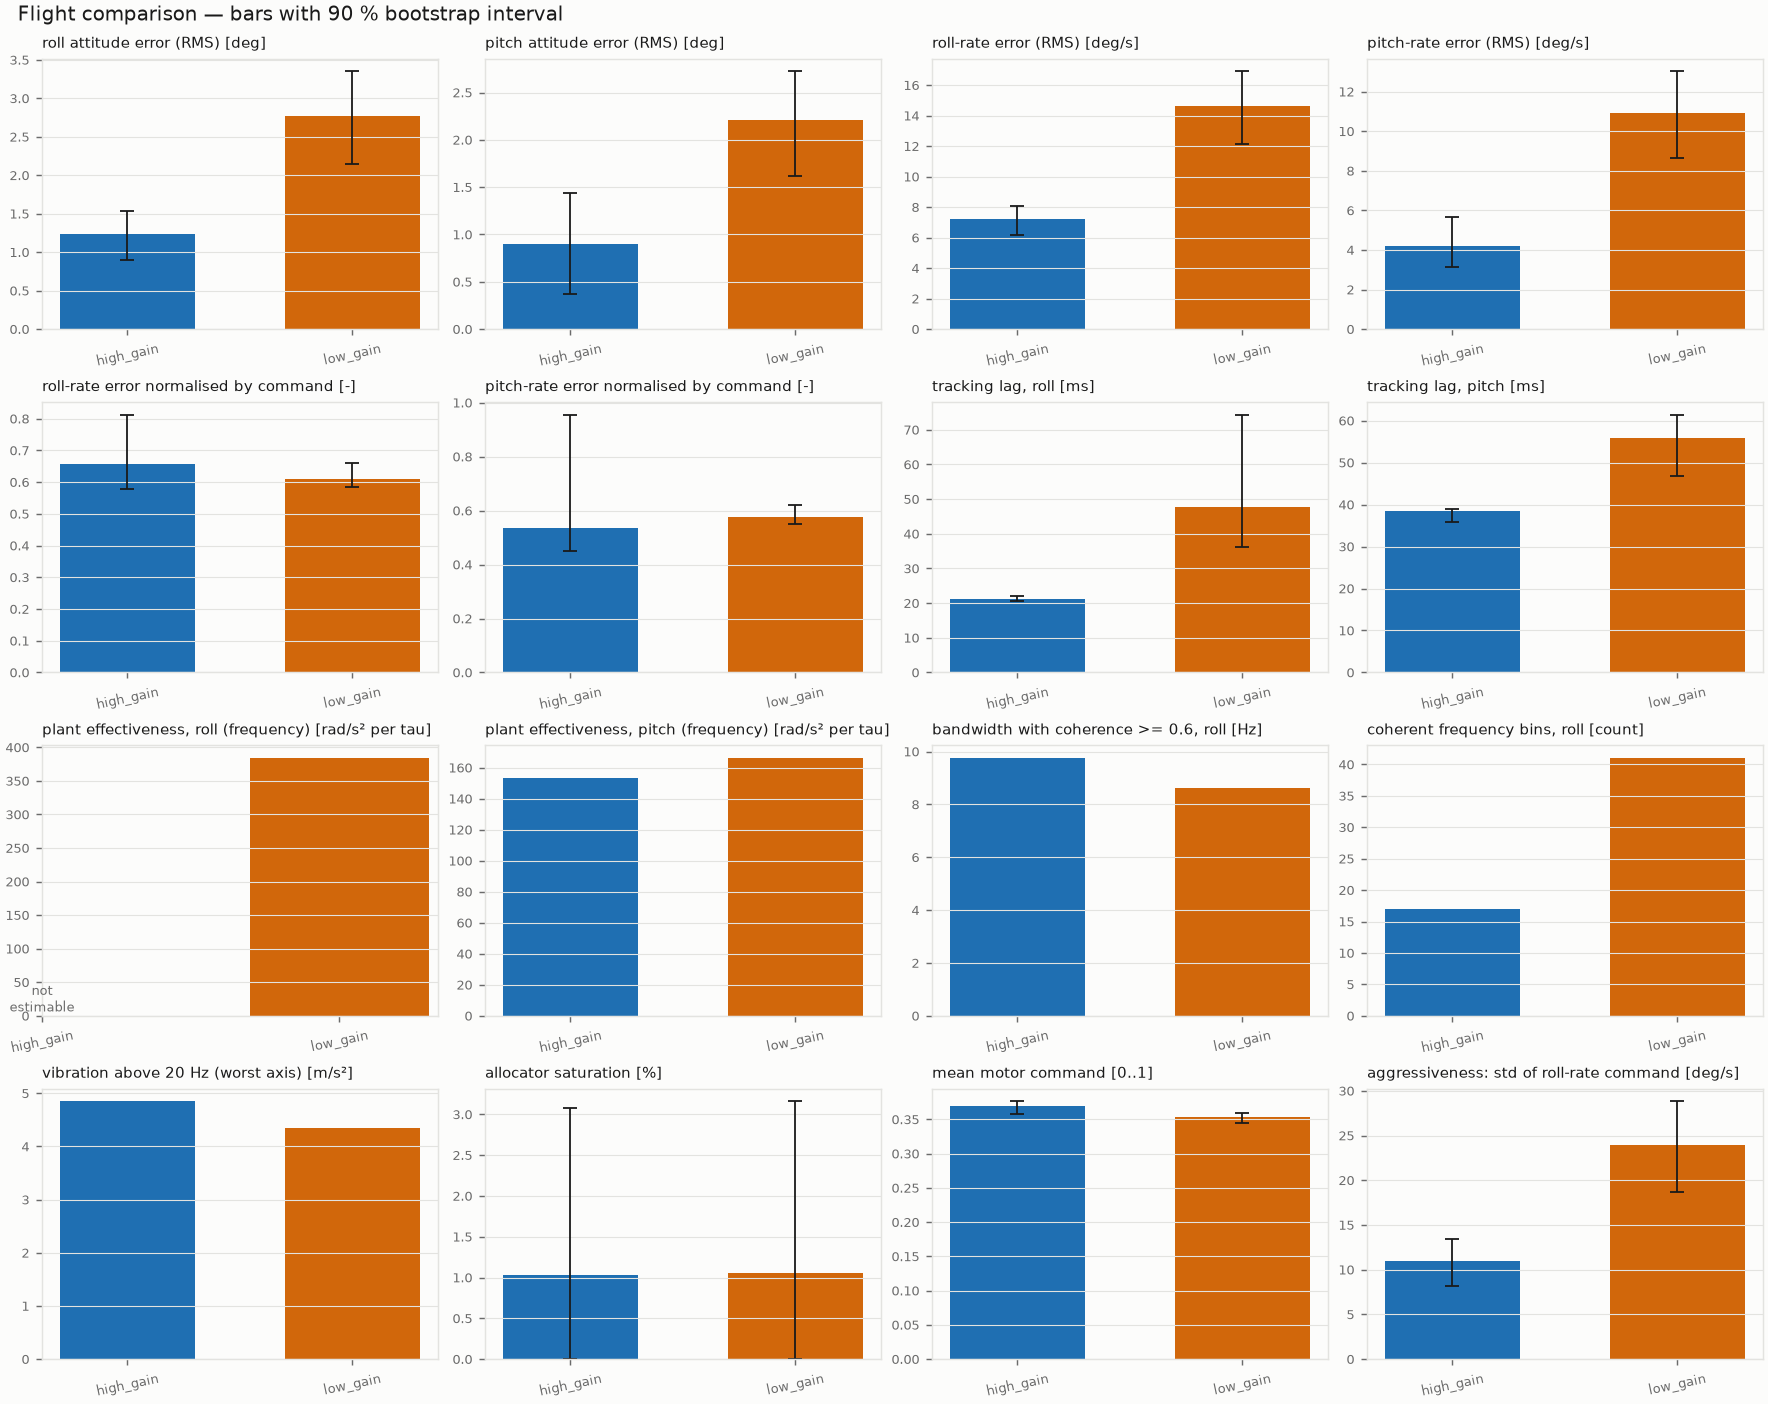
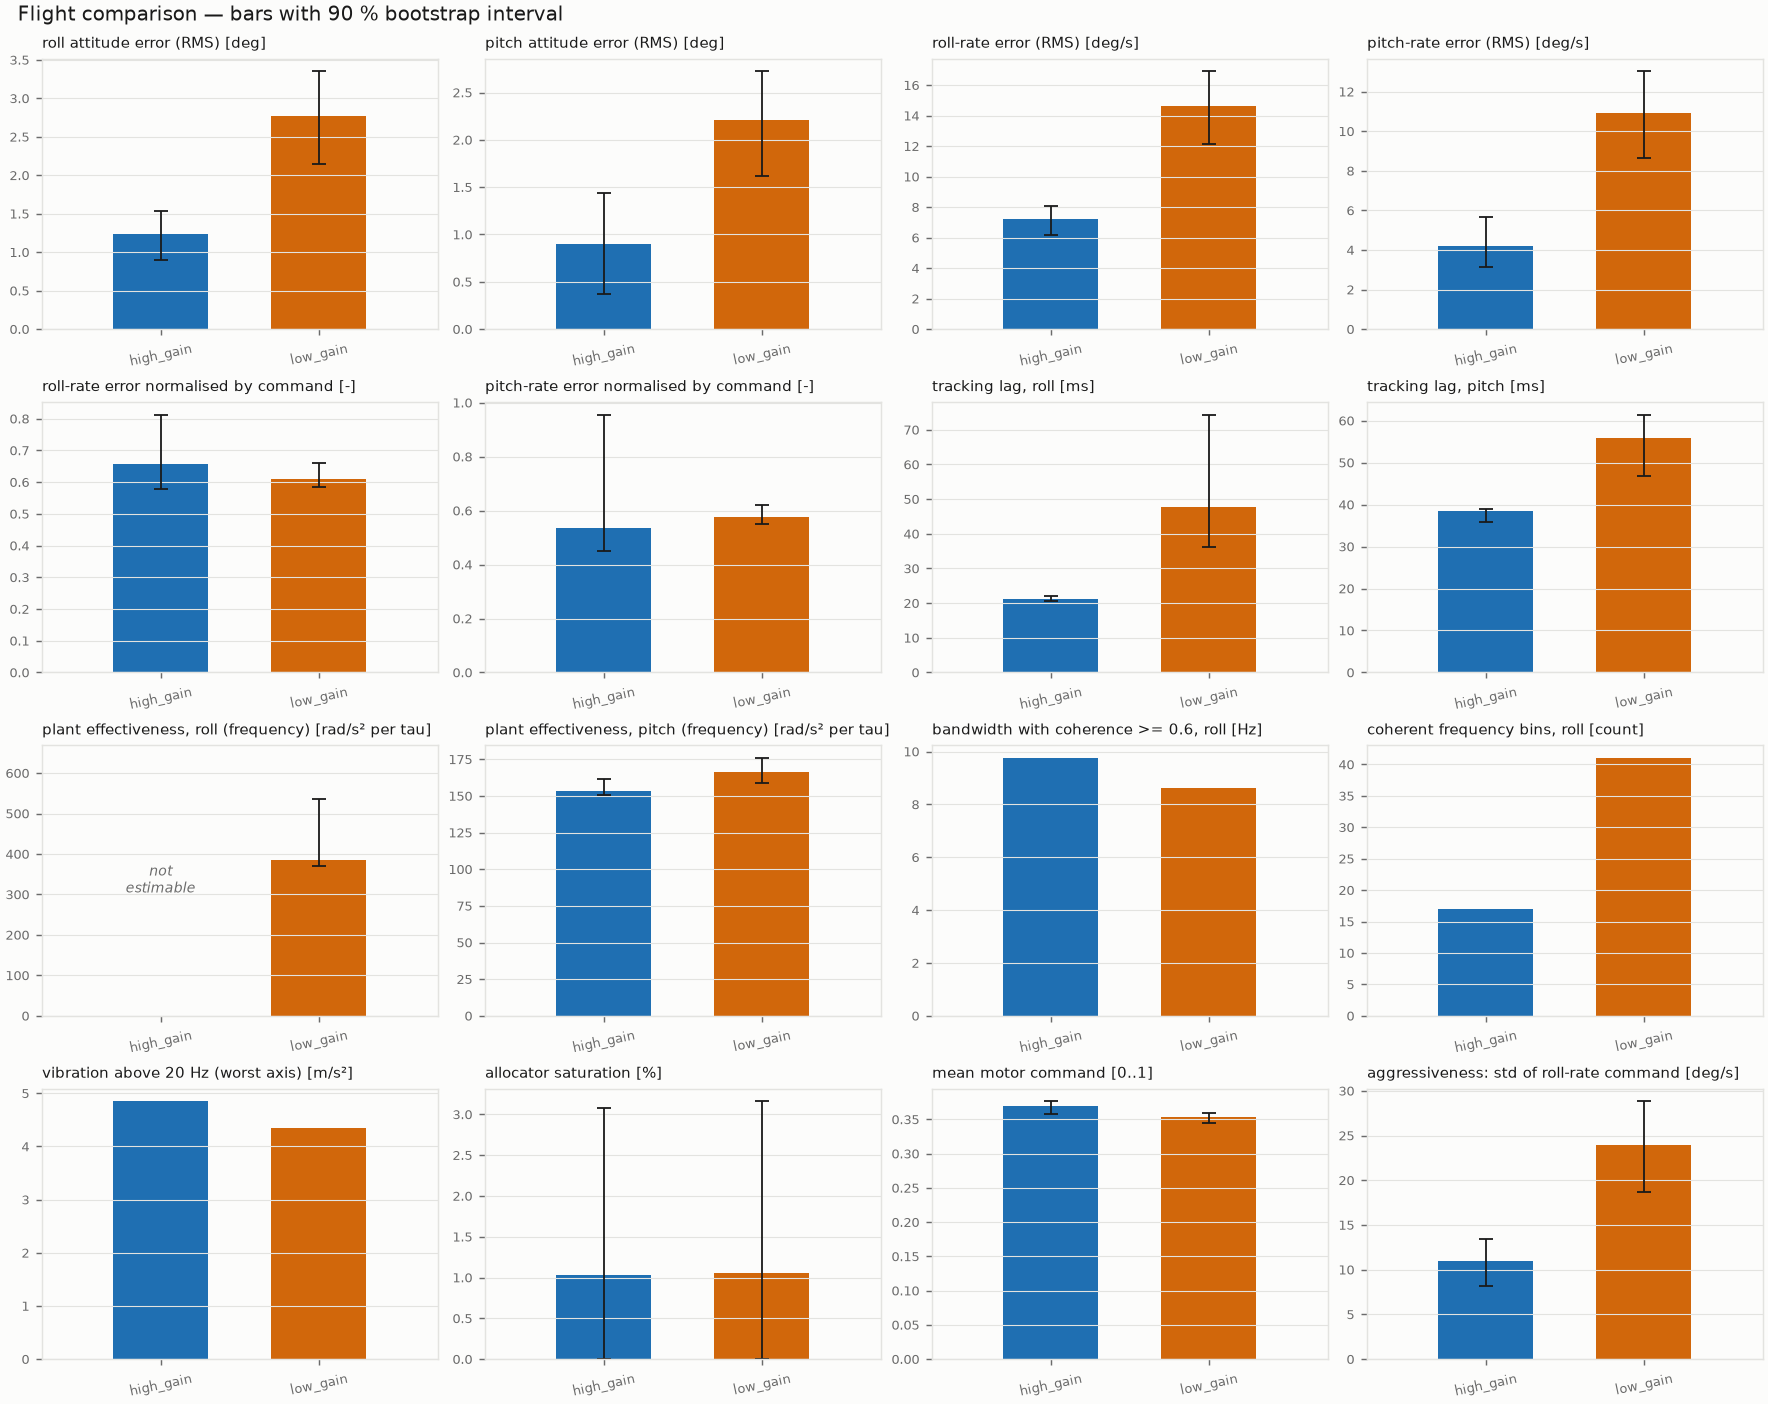
Draw the plant-gain interval and centre the missing-bar label
The plant gain comes from one spectral fit per flight, not from the block
bootstrap, so its interval lives in the frequency results and the figure
was skipping it. The two plant-effectiveness panels now show the
interval, which is what the pitch argument rests on: 153 [151-161]
against 166 [159-176] overlap, so the +8% is not a finding.

The missing-bar label was anchored at the first x slot and spilled over
the y tick labels. It is now centred in the empty slot, with padding on
both sides of the axis.

diff --git a/src/compare_flights.py b/src/compare_flights.py
@@ -80,6 +80,9 @@ METRICS = {
 }
 
 NO_CI = {"vib_hf", "K_p", "K_q", "band_p", "band_pts_p"}
+# Metrics whose interval comes from the spectral fit, not the block
+# bootstrap: the figure must read it from the frequency results.
+CI_FROM_FREQ = {"K_p", "K_q"}
 
 
 def auto_window(u, t):
@@ -518,21 +521,38 @@ def main(argv):
     for ax, k in zip(axs, keys):
         label, unit, _ = METRICS[k]
         vals = [b.get(k, np.nan) for b in bases]
-        los = [np.nanpercentile(s[k], 5) if np.isfinite(s[k]).any() else np.nan
-               for s in boots]
-        his = [np.nanpercentile(s[k], 95) if np.isfinite(s[k]).any() else np.nan
-               for s in boots]
+        if k in CI_FROM_FREQ:
+            # The plant gain is not produced by the block bootstrap (it comes from
+            # one spectral fit per flight), so its interval has to be read from
+            # where it was computed: resampling the coherent frequency bins.
+            los = [(fq_ or {}).get(f"{k}_lo", np.nan) for fq_ in freqs_by_flight]
+            his = [(fq_ or {}).get(f"{k}_hi", np.nan) for fq_ in freqs_by_flight]
+        else:
+            los = [np.nanpercentile(s[k], 5) if np.isfinite(s[k]).any() else np.nan
+                   for s in boots]
+            his = [np.nanpercentile(s[k], 95) if np.isfinite(s[k]).any() else np.nan
+                   for s in boots]
         x = np.arange(len(vals))
         ax.bar(x, vals, color=[C[i % len(C)] for i in range(len(vals))], width=0.6)
-        if k not in NO_CI:
+        # room on both sides so a label on the first/last slot is not clipped
+        ax.set_xlim(-0.75, len(vals) - 0.25)
+        if k not in NO_CI or k in CI_FROM_FREQ:
             err = np.vstack([np.array(vals) - np.array(los),
                              np.array(his) - np.array(vals)])
-            ax.errorbar(x, vals, yerr=np.abs(err), fmt="none", ecolor=INK,
-                        capsize=4, lw=1)
+            if np.isfinite(err).any():
+                ax.errorbar(x, vals, yerr=np.abs(err), fmt="none", ecolor=INK,
+                            capsize=4, lw=1)
+        if not np.isfinite(vals).all():
+            # keep the y range sensible even when one bar is missing
+            finite = [v for v in vals if np.isfinite(v)]
+            if finite:
+                ax.set_ylim(0, max(max(finite), np.nanmax(his) if np.isfinite(his).any()
+                                   else 0) * 1.25)
         for xi_, vi in zip(x, vals):
             if not np.isfinite(vi):
-                ax.text(xi_, 0, "not\nestimable", ha="center", va="bottom",
-                        fontsize=7, color=MUTED)
+                ax.text(xi_, 0.5, "not\nestimable", ha="center", va="center",
+                        fontsize=7.5, color=MUTED, style="italic",
+                        transform=ax.get_xaxis_transform())
         ax.set_xticks(x); ax.set_xticklabels(names, fontsize=7, rotation=12)
         ax.set_title(f"{label} [{unit}]", fontsize=8.5, color=INK, loc="left")
         ax.set_facecolor(BG); ax.grid(True, axis="y", color=GRID, lw=0.6)
